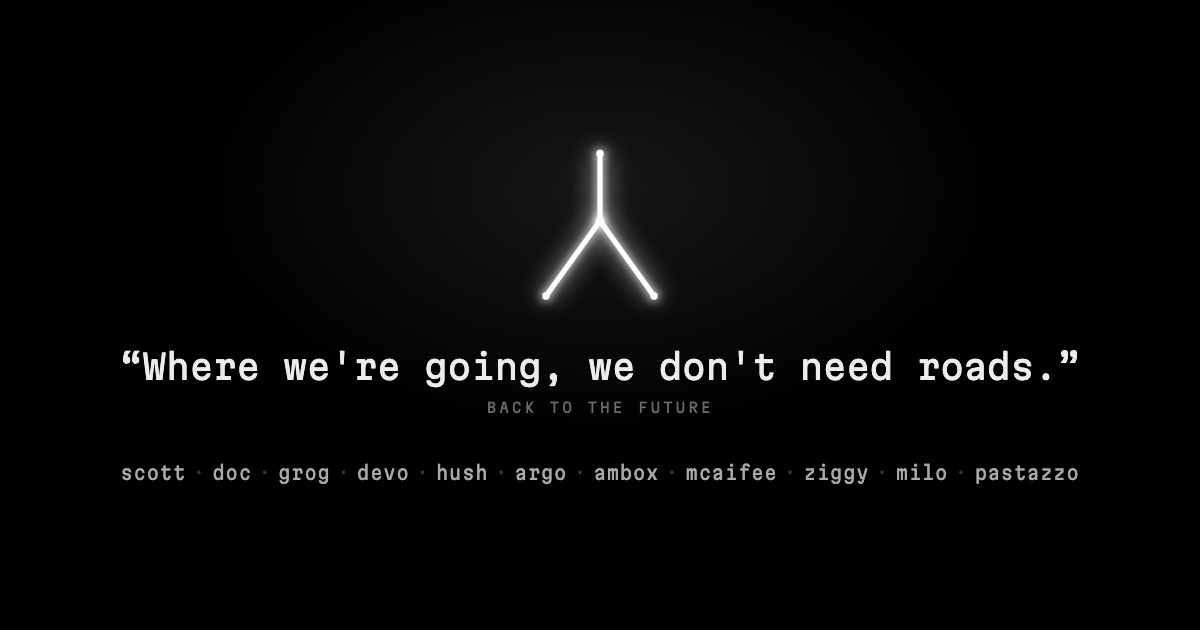
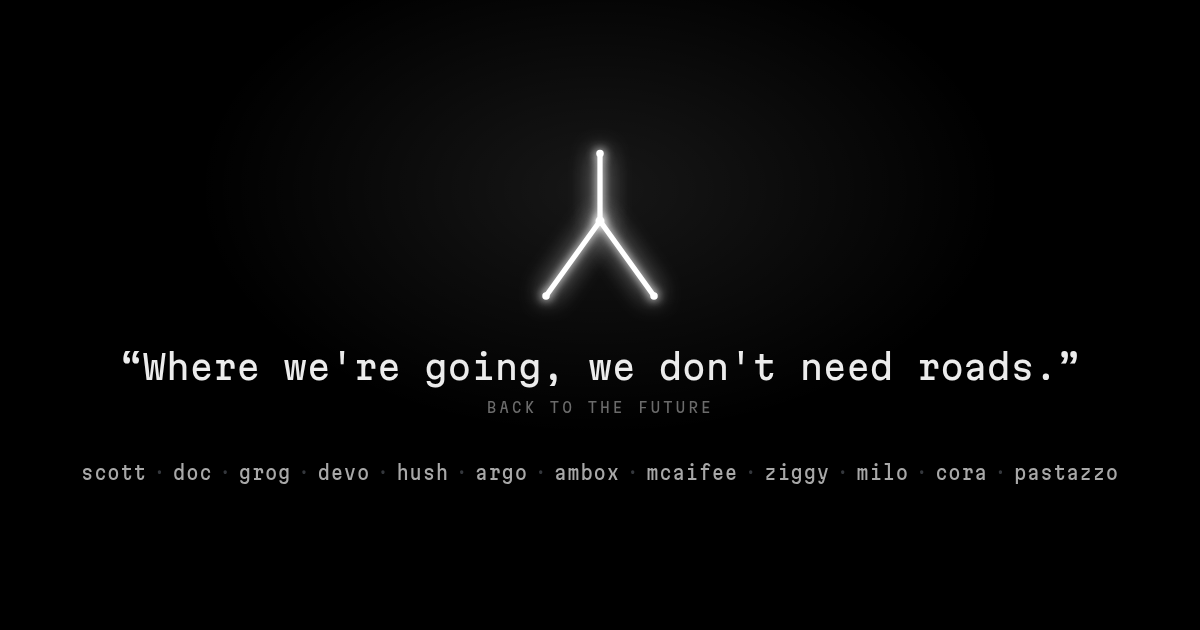
Add Cora to the Fluxkit catalog
Cora joins Ziggy and Milo as the third companion: always-on agents, each
on its own computer. The companions group uses the agent tools' grid, the
kit counts twelve tools, and the OG card lists cora.

diff --git a/index.html b/index.html
@@ -18,20 +18,20 @@
   <link rel="preload" href="fonts/martian-mono.woff2" as="font" type="font/woff2" crossorigin>
   <link rel="preload" href="fonts/dseg7-classic-bold.woff2" as="font" type="font/woff2" crossorigin>
   <meta name="theme-color" content="#000000">
-  <meta name="description" content="Fluxkit is a toolkit for developers: scott, doc, grog, devo, hush, argo, ambox, mcaifee, ziggy, milo, and pastazzo.">
+  <meta name="description" content="Fluxkit is a toolkit for developers: scott, doc, grog, devo, hush, argo, ambox, mcaifee, ziggy, milo, cora, and pastazzo.">
   <meta property="og:title" content="Fluxkit">
-  <meta property="og:description" content="Fluxkit is a toolkit for developers: scott, doc, grog, devo, hush, argo, ambox, mcaifee, ziggy, milo, and pastazzo.">
+  <meta property="og:description" content="Fluxkit is a toolkit for developers: scott, doc, grog, devo, hush, argo, ambox, mcaifee, ziggy, milo, cora, and pastazzo.">
   <meta property="og:type" content="website">
   <meta property="og:url" content="https://fluxkit.dev/">
-  <meta property="og:image" content="https://fluxkit.dev/og.png?v=11">
+  <meta property="og:image" content="https://fluxkit.dev/og.png?v=12">
   <meta property="og:image:width" content="1200">
   <meta property="og:image:height" content="630">
-  <meta property="og:image:alt" content="White flux mark on black, the line Where we're going, we don't need roads, and scott, doc, grog, devo, hush, argo, ambox, mcaifee, ziggy, milo, pastazzo.">
+  <meta property="og:image:alt" content="White flux mark on black, the line Where we're going, we don't need roads, and scott, doc, grog, devo, hush, argo, ambox, mcaifee, ziggy, milo, cora, pastazzo.">
   <meta name="twitter:card" content="summary_large_image">
   <meta name="twitter:title" content="Fluxkit">
-  <meta name="twitter:description" content="Fluxkit is a toolkit for developers: scott, doc, grog, devo, hush, argo, ambox, mcaifee, ziggy, milo, and pastazzo.">
-  <meta name="twitter:image" content="https://fluxkit.dev/og.png?v=11">
-  <meta name="twitter:image:alt" content="White flux mark on black, the line Where we're going, we don't need roads, and scott, doc, grog, devo, hush, argo, ambox, mcaifee, ziggy, milo, pastazzo.">
+  <meta name="twitter:description" content="Fluxkit is a toolkit for developers: scott, doc, grog, devo, hush, argo, ambox, mcaifee, ziggy, milo, cora, and pastazzo.">
+  <meta name="twitter:image" content="https://fluxkit.dev/og.png?v=12">
+  <meta name="twitter:image:alt" content="White flux mark on black, the line Where we're going, we don't need roads, and scott, doc, grog, devo, hush, argo, ambox, mcaifee, ziggy, milo, cora, pastazzo.">
   <style>
     @font-face {
       font-family: "Martian Mono";
@@ -453,8 +453,6 @@
     .cell:hover .repo svg { transform: translate(2px, -2px); }
 
     .cell.vehicle { grid-column: span 2; }
-    .grid.companions { grid-template-columns: repeat(2, minmax(0, 1fr)); }
-    .grid.companions .cell { grid-column: auto; }
     .vehicle h3 { font-size: clamp(36px, 5vw, 56px); letter-spacing: -.045em; }
     .vehicle .what { max-width: 34rem; }
     .riders { display: flex; flex-wrap: wrap; gap: .4rem; margin: .4rem 0 0; padding: 0; list-style: none; }
@@ -670,7 +668,6 @@
     }
     @media (max-width: 640px) {
       .grid { grid-template-columns: minmax(0, 1fr); }
-      .grid.companions { grid-template-columns: minmax(0, 1fr); }
       .cell.vehicle, .grid .cell:last-child { grid-column: auto; }
       .cell { min-height: 0; }
       .circuits { grid-template-columns: minmax(0, 1fr); }
@@ -722,7 +719,7 @@
           <p class="prompt rise" style="--d:0"><b>$</b> sh install.sh<span class="cursor" aria-hidden="true"></span></p>
           <h1 class="rise" style="--d:1">fluxkit</h1>
           <p class="quote rise" style="--d:2">“Where we're going, we don't need roads.”<cite>Back to the Future</cite></p>
-          <p class="lede rise" style="--d:3">A local toolkit for your coding agent, and for you next to it. Eleven open-source tools for code, social channels, email, and your clipboard. Give the agent one file to install the core and check the whole security system.</p>
+          <p class="lede rise" style="--d:3">A local toolkit for your coding agent, and for you next to it. Twelve open-source tools for code, social channels, email, agents of your own, and your clipboard. Give the agent one file to install the core and check the whole security system.</p>
           <div class="cta rise" style="--d:4">
             <button type="button" class="btn primary" data-copy="agent-prompt">
               <svg aria-hidden="true"><use href="#i-copy"/></svg>
@@ -770,7 +767,7 @@
       <div class="circuits rise" style="--d:5" aria-label="Time circuits">
         <div class="readout red">
           <span class="name">Tools in the kit</span>
-          <span class="digits" role="img" aria-label="11 tools"><span class="ghost" aria-hidden="true">88</span><span class="lit" aria-hidden="true" data-count="11">11</span></span>
+          <span class="digits" role="img" aria-label="12 tools"><span class="ghost" aria-hidden="true">88</span><span class="lit" aria-hidden="true" data-count="12">12</span></span>
         </div>
         <div class="readout green">
           <span class="name">Secrets printed</span>
@@ -788,7 +785,7 @@
             <p class="label"><b>01</b> the kit</p>
             <h2 id="kit-title">One vehicle. Tools for the work around it.</h2>
           </div>
-          <p>Seven agent tools ride inside scott. Add Ziggy for social channels and Milo for email; Pastazzo keeps your clipboard close. Every repository is public.</p>
+          <p>Seven agent tools ride inside scott. Add Ziggy for social channels, Milo for email, and Cora for agents that live on their own computers; Pastazzo keeps your clipboard close. Every repository is public.</p>
         </div>
 
         <p class="group">for the agent</p>
@@ -846,7 +843,7 @@
           </a>
         </div>
 
-        <p class="group">social &amp; email</p>
+        <p class="group">companions</p>
         <div class="grid companions">
           <a class="cell" href="https://github.com/turinglabsorg/ziggy">
             <div class="cell-top"><span class="num">09</span><span class="tag">social agent</span></div>
@@ -860,12 +857,18 @@
             <p class="what">Your inbox, with room to think. An email client for Gmail and IMAP/SMTP, with Ollama for summaries and proposed replies. Your archive follows you across devices.</p>
             <span class="repo">turinglabsorg/milo <svg aria-hidden="true"><use href="#i-arrow"/></svg></span>
           </a>
+          <a class="cell" href="https://github.com/turinglabsorg/cora">
+            <div class="cell-top"><span class="num">11</span><span class="tag">resident agents</span></div>
+            <h3>cora</h3>
+            <p class="what">Always-on agents, each on its own computer. They talk on Discord or Telegram, remember, run routines, and ask you on your phone when they need you.</p>
+            <span class="repo">turinglabsorg/cora <svg aria-hidden="true"><use href="#i-arrow"/></svg></span>
+          </a>
         </div>
 
         <p class="group">next to you</p>
         <a class="cell shelf-cell" href="https://github.com/turinglabsorg/pastazzo">
           <div class="copy">
-            <div class="cell-top"><span class="num">11</span><span class="tag">clipboard</span></div>
+            <div class="cell-top"><span class="num">12</span><span class="tag">clipboard</span></div>
             <h3>pastazzo</h3>
             <p class="what">Clipboard history for GNOME and macOS. Everything you copy lands on a shelf, synced across your devices end to end. Not an agent tool: the one you reach for while the agent works.</p>
             <div class="keys" aria-label="Shortcut Shift Alt V"><kbd>Shift</kbd><kbd>Alt</kbd><kbd>V</kbd><span>opens the shelf</span></div>

diff --git a/og.html b/og.html
@@ -48,7 +48,7 @@
     </svg>
     <p class="quote">“Where we're going, we don't need roads.”</p>
     <p class="cite">Back to the Future</p>
-    <p class="tools">scott<span>·</span>doc<span>·</span>grog<span>·</span>devo<span>·</span>hush<span>·</span>argo<span>·</span>ambox<span>·</span>mcaifee<span>·</span>ziggy<span>·</span>milo<span>·</span>pastazzo</p>
+    <p class="tools">scott<span>·</span>doc<span>·</span>grog<span>·</span>devo<span>·</span>hush<span>·</span>argo<span>·</span>ambox<span>·</span>mcaifee<span>·</span>ziggy<span>·</span>milo<span>·</span>cora<span>·</span>pastazzo</p>
   </div>
 </body>
 </html>

diff --git a/DESIGN.md b/DESIGN.md
@@ -46,10 +46,10 @@ The page measure is `min(72rem, 100% - 2rem)`. Nothing scrolls sideways at 1440,
 
 1. **Bar.** `meaningtech / fluxkit` on the left, `AGENTS.md` and `source` on the right. The row wraps when the links cannot fit, including at 320px.
 2. **Hero.** Two columns above 860px, stacked below. Left: the prompt line `$ fluxkit`, the wordmark, the line “Where we're going, we don't need roads.”, one sentence on what the kit is, and two actions: copy the agent prompt, open `AGENTS.md`. Right: the flux capacitor housing (corner screws, a small `FLUX CAPACITOR` plate, the mark with light running down the conduits).
-3. **Time circuits.** Three readouts in a row, each a label plate and digits: `TOOLS 11` red, `SECRETS PRINTED 00` green, `MPH 88` amber. The first two are facts; the third is the joke. Update `TOOLS` when the kit changes.
-4. **The kit.** Section label `01 the kit`, a heading, and a short note on the right. Then three groups, each under a `//` label. Tools are numbered 01 to 11 in the order of the table below.
+3. **Time circuits.** Three readouts in a row, each a label plate and digits: `TOOLS 12` red, `SECRETS PRINTED 00` green, `MPH 88` amber. The first two are facts; the third is the joke. Update `TOOLS` when the kit changes.
+4. **The kit.** Section label `01 the kit`, a heading, and a short note on the right. Then three groups, each under a `//` label. Tools are numbered 01 to 12 in the order of the table below.
    - `// for the agent`: one grid. scott is the first cell, two columns wide, with the seven tools it carries as `+ name` chips. Then doc, grog, devo, hush, argo, ambox, mcaifee. Three columns above 1024px, two above 640px (scott and the last cell span both), one below. Each cell: the number, a short tag, the name, one sentence, and `turinglabsorg/<repo>` with an arrow. The whole cell is the link.
-   - `// social & email`: Ziggy (09) and Milo (10), using the same cells in a two-column `.grid.companions`, stacked at 640px. Ziggy is the social media agent; Milo is the human's email client with an Ollama assistant. They have separate setup and are not bundled inside scott or installed by the core installer. The installation section states this explicitly.
+   - `// companions`: Ziggy (09), Milo (10), and Cora (11), using the same cells and the same grid as the agent tools: three columns above 1024px, two above 640px (the last cell spans both), one below. Ziggy is the social media agent; Milo is the human's email client with an Ollama assistant; Cora runs the human's always-on agents, each on its own computer. They have separate setup and are not bundled inside scott or installed by the core installer. The installation section states this explicitly.
    - `// next to you`: pastazzo. It is not an agent tool: it is for the human working next to the agent. Its cell is full width, with the pastazzo orange on its number, its tag, its top border and a soft glow above it, a keycap row `Shift Alt V`, and on the right a dark mock of the shelf: search field, a transfer pill, four items with age and device, the first one selected. The row of items is clipped with a fade; it never widens the page.
 5. **Ask your agent.** Section label `02 ask your agent`. A terminal window: the human's message (the exact prompt below), the agent's first line (the security sentence), then installer lines with `ok` in green. Lines appear one after the other on load. Under it, copy and open, and the `curl` line for people who install it themselves, with its own copy.
 6. **Footer.** The quote and its attribution, `meaningtech`, `MIT`.
@@ -70,6 +70,7 @@ Cells are square, 1px `--rule` border, `--panel` fill. On hover a cell's border 
 | mcaifee | Antivirus for agents. A package is checked before it runs. | packages | github.com/turinglabsorg/mcaifee |
 | ziggy | Your agent's social media manager. Brand assets, short videos, publishing, and replies, with a separate playbook for each brand. | social agent | github.com/turinglabsorg/ziggy |
 | milo | Your inbox, with room to think. An email client for Gmail and IMAP/SMTP, with Ollama for summaries and proposed replies. Your archive follows you across devices. | email client | github.com/turinglabsorg/milo |
+| cora | Always-on agents, each on its own computer. They talk on Discord or Telegram, remember, run routines, and ask you on your phone when they need you. | resident agents | github.com/turinglabsorg/cora |
 | pastazzo | Clipboard history for GNOME and macOS. Everything you copy lands on a shelf, synced across your devices end to end. | clipboard | github.com/turinglabsorg/pastazzo |
 
 Devo is a public repository. The page does not call it private. Pastazzo is not inside scott: it needs a desktop.

diff --git a/AGENTS.md b/AGENTS.md
@@ -1,6 +1,6 @@
 # Fluxkit
 
-You are installing Fluxkit for the human. Fluxkit is a local toolkit. It is not a hosted product. The tools run on this machine. scott is the portable Claude Code that already carries doc, grog, devo, hush, argo, ambox, and mcaifee. Ziggy and Milo are optional companions with separate setup. Milo is the human's email client; pastazzo is their clipboard, on their desktop.
+You are installing Fluxkit for the human. Fluxkit is a local toolkit. It is not a hosted product. The tools run on this machine. scott is the portable Claude Code that already carries doc, grog, devo, hush, argo, ambox, and mcaifee. Ziggy, Milo, and Cora are optional companions with separate setup. Milo is the human's email client; pastazzo is their clipboard, on their desktop.
 
 ## Say this first
 
@@ -26,16 +26,18 @@ If the human writes Italian, the sentence is: "Sto installando Fluxkit e sto con
 | mcaifee | Antivirus for agents. npm, pnpm, Yarn, and Bun installs are checked before they run | https://github.com/turinglabsorg/mcaifee |
 | ziggy | Social media management: brand assets, short videos, publishing, and replies within a per-brand playbook | https://github.com/turinglabsorg/ziggy |
 | milo | The human's email client for Gmail and IMAP/SMTP, with an Ollama assistant and a shared archive across devices | https://github.com/turinglabsorg/milo |
+| cora | Always-on agents for the human, each with its own Linux desktop: Discord or Telegram, layered memory, routines, SSH, and requests to the human's phone | https://github.com/turinglabsorg/cora |
 | pastazzo | The human's clipboard history on GNOME (Wayland) and macOS, with optional end-to-end encrypted sync between their devices. Not an agent tool, and not inside scott | https://github.com/turinglabsorg/pastazzo |
 
 Devo is public. Clone it with the others. Do not ask the human to paste a token into the chat.
 
 ## Optional companions
 
-The core installer does not install Ziggy or Milo. Set them up only when the human asks:
+The core installer does not install Ziggy, Milo, or Cora. Set them up only when the human asks:
 
 - Ziggy: follow its [installation guide](https://github.com/turinglabsorg/ziggy#install). Publishing credentials stay in hush.
 - Milo: follow its [Linux setup guide](https://github.com/turinglabsorg/milo#run-on-linux). It needs PostgreSQL and mailbox authorization; do not access the human's mail without their request.
+- Cora: follow its [run guide](https://github.com/turinglabsorg/cora#run). It needs Docker, a machine that stays on, and the Claude Code or Codex subscription (or an Ollama Cloud key); its secrets stay in hush, and the human pastes bot tokens in its panel, never in the chat.
 
 ## Install
 

diff --git a/README.md b/README.md
@@ -29,11 +29,12 @@ The same file is at <https://raw.githubusercontent.com/meaningtech/fluxkit/main/
 | mcaifee | Antivirus for agents. A package is checked before it runs | <https://github.com/turinglabsorg/mcaifee> |
 | ziggy | Social media manager for coding agents: brand assets, videos, publishing, and replies, with a playbook per brand | <https://github.com/turinglabsorg/ziggy> |
 | milo | Email client for Gmail and IMAP/SMTP, with an Ollama assistant for summaries and proposed replies, and a shared archive across devices | <https://github.com/turinglabsorg/milo> |
+| cora | Always-on agents, each with its own Linux desktop: Discord or Telegram, layered memory, routines, SSH, and requests to your phone | <https://github.com/turinglabsorg/cora> |
 | pastazzo | Clipboard history for GNOME and macOS, synced across your devices end to end. It is for you, not for the agent | <https://github.com/turinglabsorg/pastazzo> |
 
 All of them are public.
 
-Ziggy and Milo are optional companions with their own setup; the core installer does not install them. Follow the [Ziggy installation guide](https://github.com/turinglabsorg/ziggy#install) or the [Milo setup guide](https://github.com/turinglabsorg/milo#run-on-linux). Ziggy needs a publishing provider and hush-held keys; Milo needs PostgreSQL and mailbox authorization.
+Ziggy, Milo, and Cora are optional companions with their own setup; the core installer does not install them. Follow the [Ziggy installation guide](https://github.com/turinglabsorg/ziggy#install), the [Milo setup guide](https://github.com/turinglabsorg/milo#run-on-linux), or [Cora's run guide](https://github.com/turinglabsorg/cora#run). Ziggy needs a publishing provider and hush-held keys; Milo needs PostgreSQL and mailbox authorization; Cora needs Docker, a machine that stays on, and the Claude Code or Codex subscription (or an Ollama Cloud key).
 
 ## Install it yourself
 
